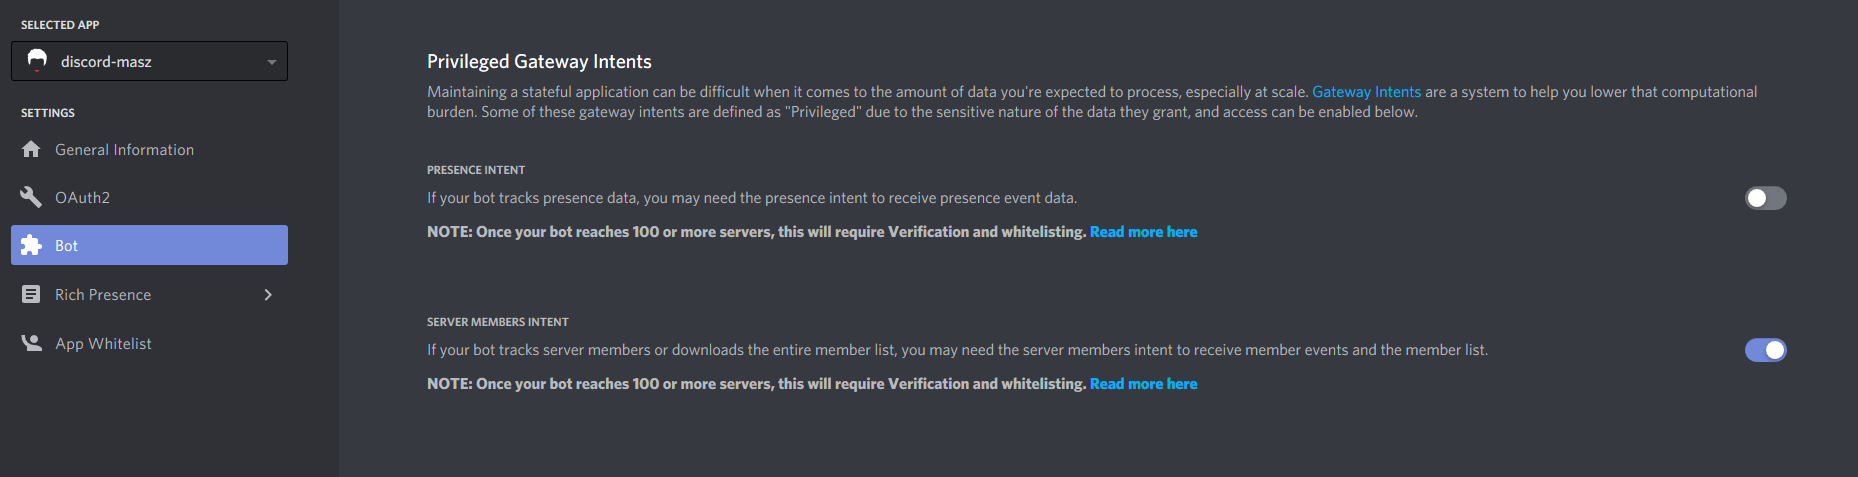
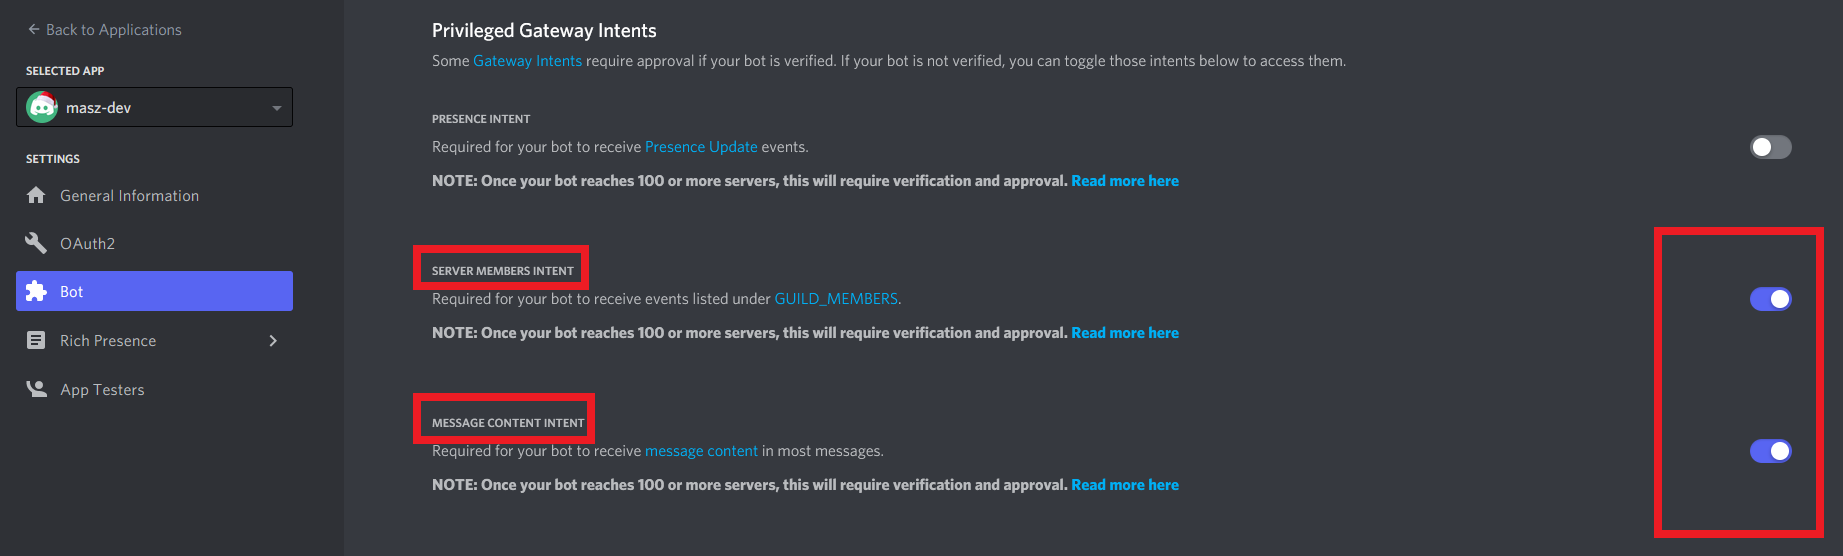
added message content intent to readme

diff --git a/README.md b/README.md
@@ -51,7 +51,7 @@ If you have any questions, feel free to contact me. <br/>
 
 - Create a discord application at https://discord.com/developers/applications
 - Set redirect urls on your discord application [as defined](https://github.com/zaanposni/discord-masz#discord-oauth).
-- Enable **Server Members Intent** in your bot settings.
+- Enable **Server Members** and **Message Content Intent** in your bot settings.
 - Execute the `setup.py` script to configure your app and `docker-compose up -d` to start it.
 - App will be hosted on `127.0.0.1:5565`, if you are hosting the app on a domain, redirect your reverse proxy to this local port!
 
@@ -74,7 +74,7 @@ Also set the redirect paths in the tab `OAuth2`. Be sure to set the following (c
 
 ### Bot Intents
 
-Enable **Server Members Intent** in your bot settings.
+Enable **Server Members** and **Message Content Intent** in your bot settings.
 
 <img src="/docs/intents.png"/>
 
